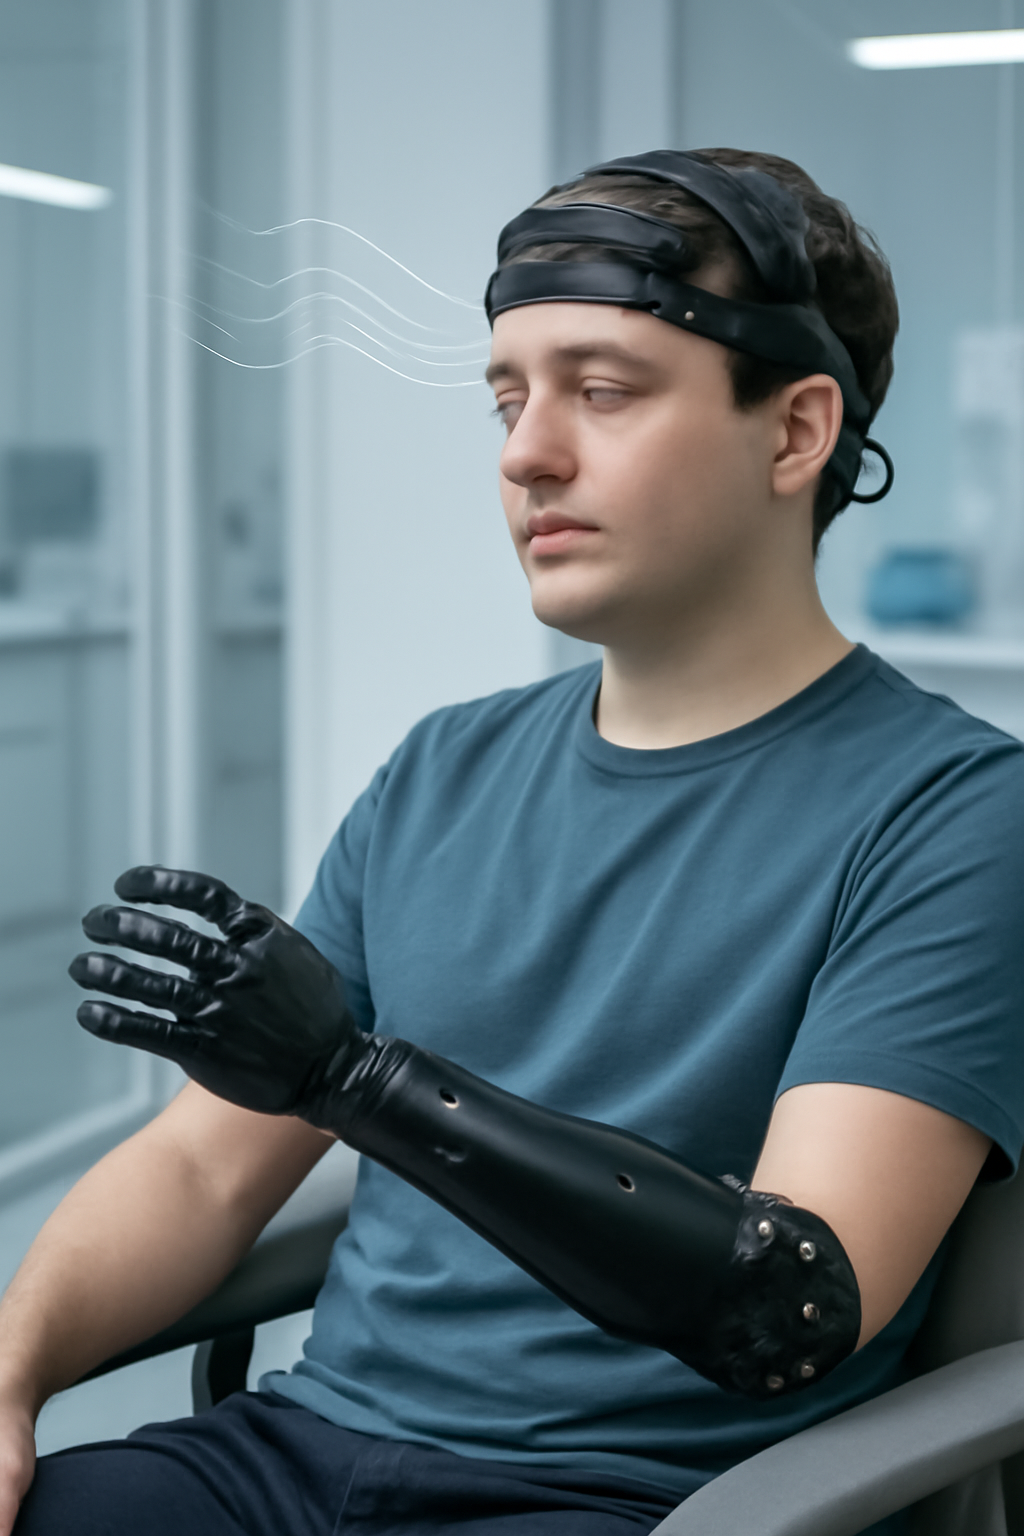
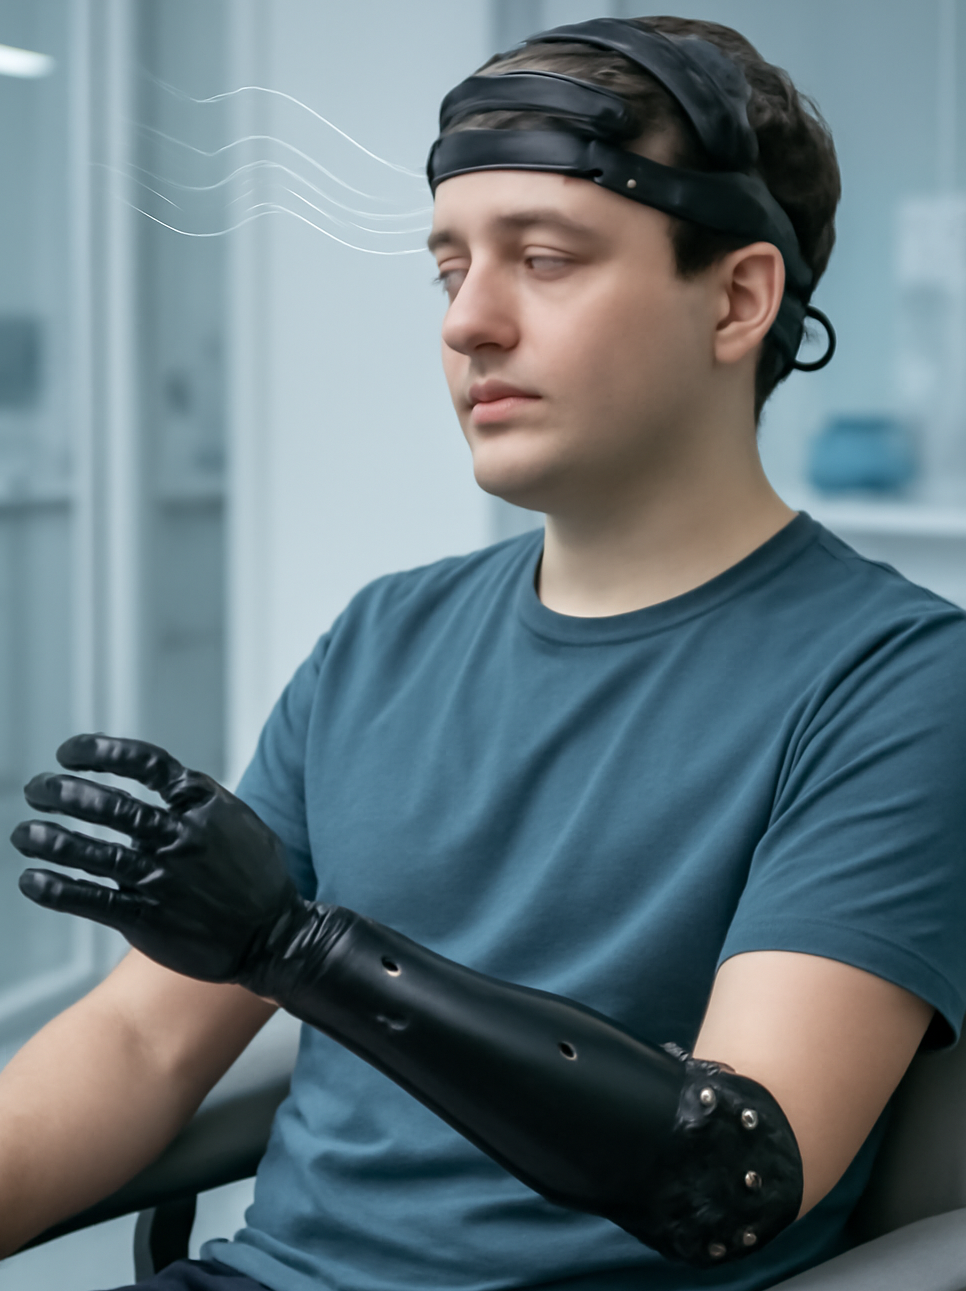
BCI thumbnail

diff --git a/_projects/bci.md b/_projects/bci.md
@@ -1,7 +1,7 @@
 ---
 name: Design and 3D printing of externally powered prosthetic arm controlled by Brain Computer Interface for below elbow amputees
 tools: [EMOTIV EPOCX, EMOTIV PRO, PsychoPy, Python, MNE-Python]
-image: 
+image: https://naitikdalwadi.github.io/assets/images/BCI_thumbnail.png
 description: machine learning-driven brain-computer interface (BCI) framework for controlling a 3D-printed prosthetic arm based on electroencephalography (EEG) signals.
 ---
 
